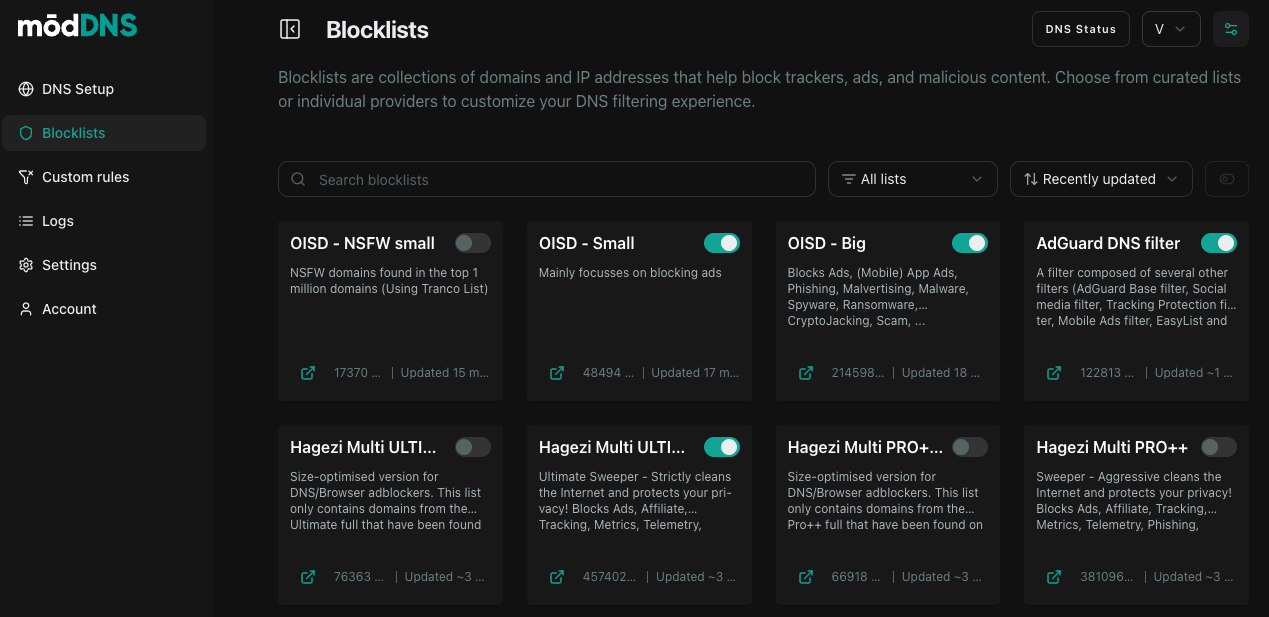
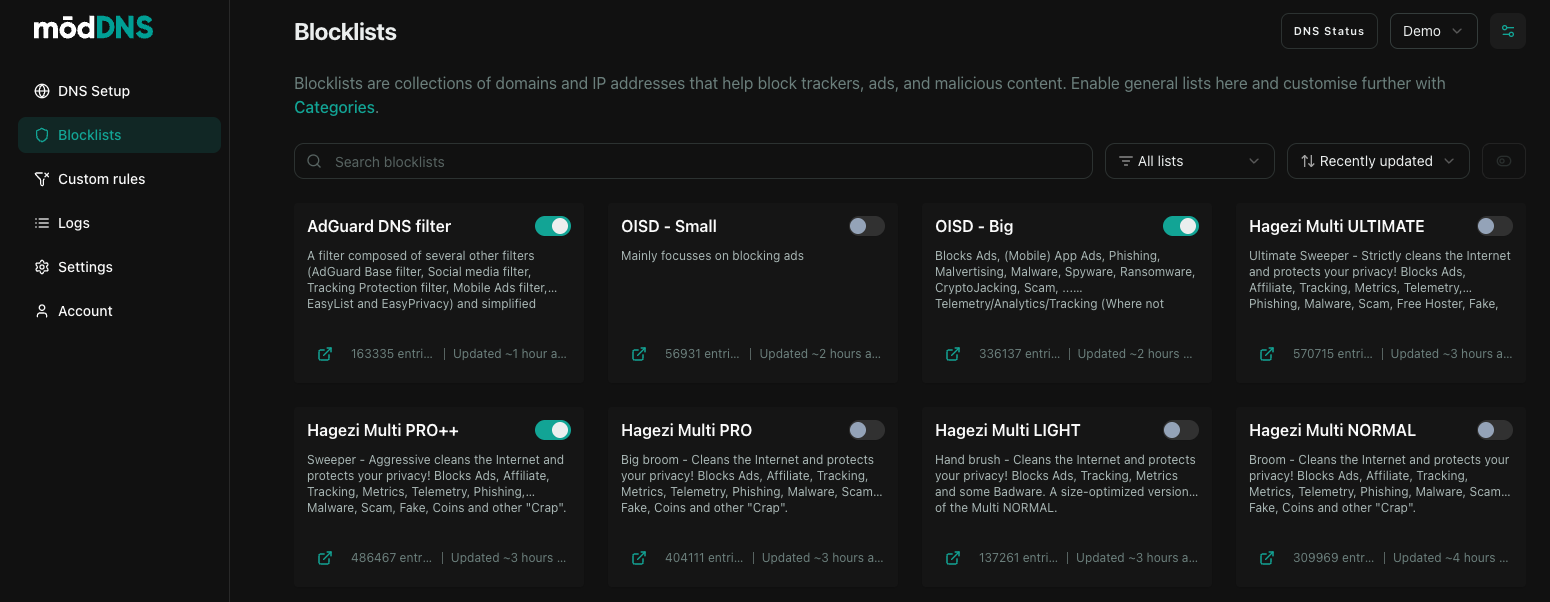
Updated services,pricing page

diff --git a/src/themes/ivpn-v3/assets/js/views/Prices.vue b/src/themes/ivpn-v3/assets/js/views/Prices.vue
@@ -235,7 +235,7 @@
                                 <img src="/images/pm_light_contrast.svg" alt="Portmaster" class="portmaster-icon">
                                 <span>{{ $t('pricing.portmasterTitle') }}</span>
                             </div>
-                            <img src="/images/ivpn.png" alt="IVPN" class="service-icon">
+                            <img src="/images/ivpn.png" alt="IVPN" class="service-icon" style="height: 3rem">
                         </div>
                     </div>
                 </div>
@@ -821,9 +821,14 @@ export default {
             margin-bottom: 0.5rem;
 
             &.reverse {
+                @media (max-width: 768px) {
+                    margin-top: 3rem;
+                }
+
                 @media (max-width: 480px) {
                     display: flex;
                     flex-direction: column-reverse;
+                    margin-top: 2rem;
                 }
             }
 
@@ -879,27 +884,39 @@ export default {
                 align-items: center;
                 justify-content: center;
                 height: 100%;
+
+                @media (max-width: 768px) {
+                    margin-top: 2rem;
+                }
             }
 
             .service-icons {
                 display: grid;
                 grid-template-columns: repeat(2, 1fr);
-                gap: 2rem;
+                gap: 2.5rem 3rem;
                 align-items: center;
                 justify-items: center;
                 width: 100%;
                 height: 100%;
 
+                @media (max-width: 768px) {
+                    gap: 2rem;
+                }
+
                 @media (max-width: 480px) {
-                    margin-top: 1.5rem;
+                    gap: 1.5rem 1rem;
                 }
 
                 .service-icon {
-                    height: 2.5rem;
+                    height: 2rem;
                     width: auto;
                     object-fit: contain;
 
                     @media (max-width: 1024px) {
+                        height: 1.4rem;
+                    }
+
+                    @media (max-width: 480px) {
                         height: 1.2rem;
                     }
                 }
@@ -912,11 +929,15 @@ export default {
 
                     span {
                         font-weight: bold;
-                        font-size: 2.2rem;
+                        font-size: 1.9rem;
                         line-height: 1.2;
                         color: var(--color-white);
 
                         @media (max-width: 1024px) {
+                            font-size: 1.2rem;
+                        }
+
+                        @media (max-width: 480px) {
                             font-size: 1rem;
                         }
                     }
@@ -929,6 +950,11 @@ export default {
                     flex-shrink: 0;
 
                     @media (max-width: 1024px) {
+                        width: 2rem;
+                        height: 2rem;
+                    }
+
+                    @media (max-width: 480px) {
                         width: 1.5rem;
                         height: 1.5rem;
                     }
@@ -942,10 +968,15 @@ export default {
     align-items: center;
     justify-content: center;
     min-height: 500px;
+    overflow: hidden;
 
     @media (max-width: 768px) {
-        width: 100vw;
-         
+        min-height: 320px;
+    }
+
+    @media (max-width: 480px) {
+        min-height: 260px;
+        margin-bottom: 1.5rem;
     }
 
     .product-cli {
@@ -963,7 +994,14 @@ export default {
         }
 
         @media (max-width: 768px) {
-            left: 5%;
+            left: 0;
+            width: 70%;
+            transform: translateY(calc(-50% - 35px));
+        }
+
+        @media (max-width: 480px) {
+            width: 68%;
+            transform: translateY(calc(-50% - 25px));
         }
     }
 
@@ -982,7 +1020,15 @@ export default {
         }
 
         @media (max-width: 768px) {
-            left: calc(5% + 4rem);
+            left: 3rem;
+            width: 70%;
+            transform: translateY(calc(-40% + 15px));
+        }
+
+        @media (max-width: 480px) {
+            left: 2.5rem;
+            width: 68%;
+            transform: translateY(calc(-40% + 10px));
         }
     }
 }
@@ -1135,6 +1181,7 @@ export default {
     };
 }
 .moddns-logo {
+    height: 1.7rem !important;
     @include light-theme((
         content: url('/images/mod_white.png')
     ));